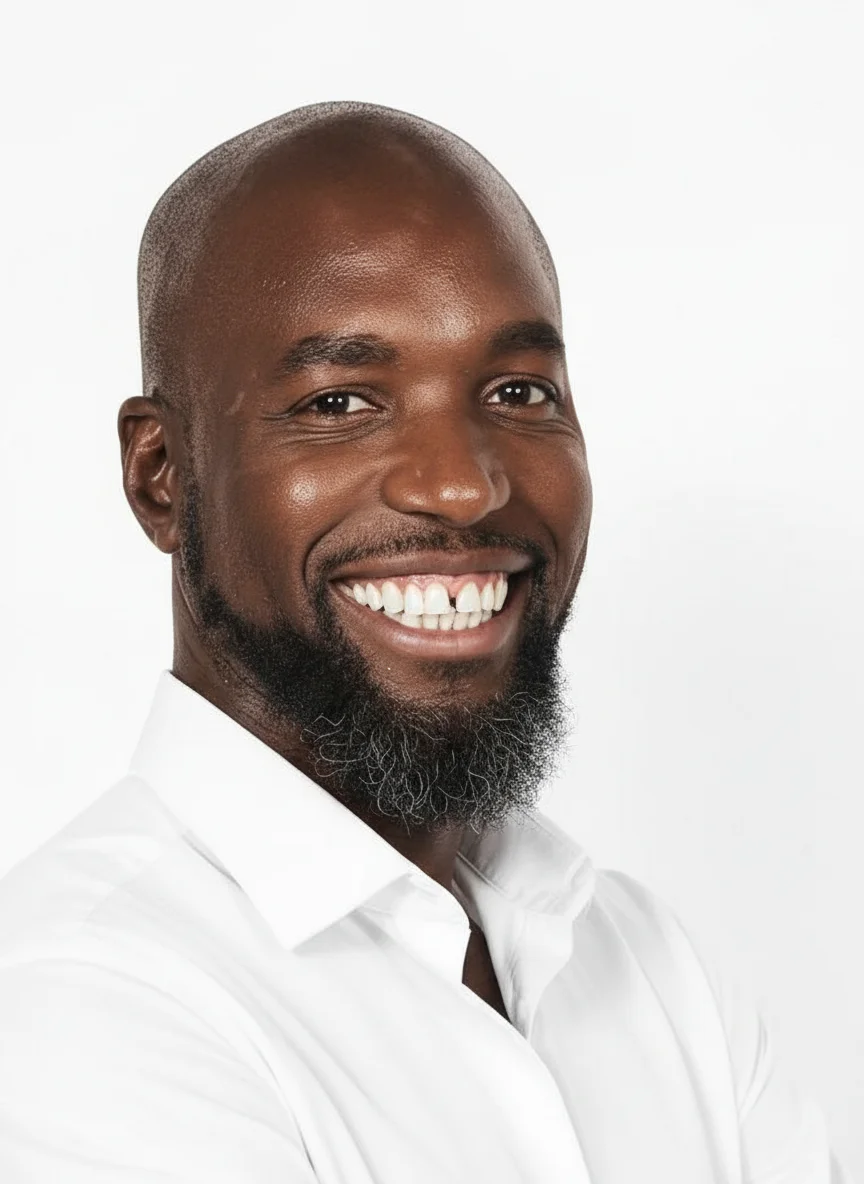
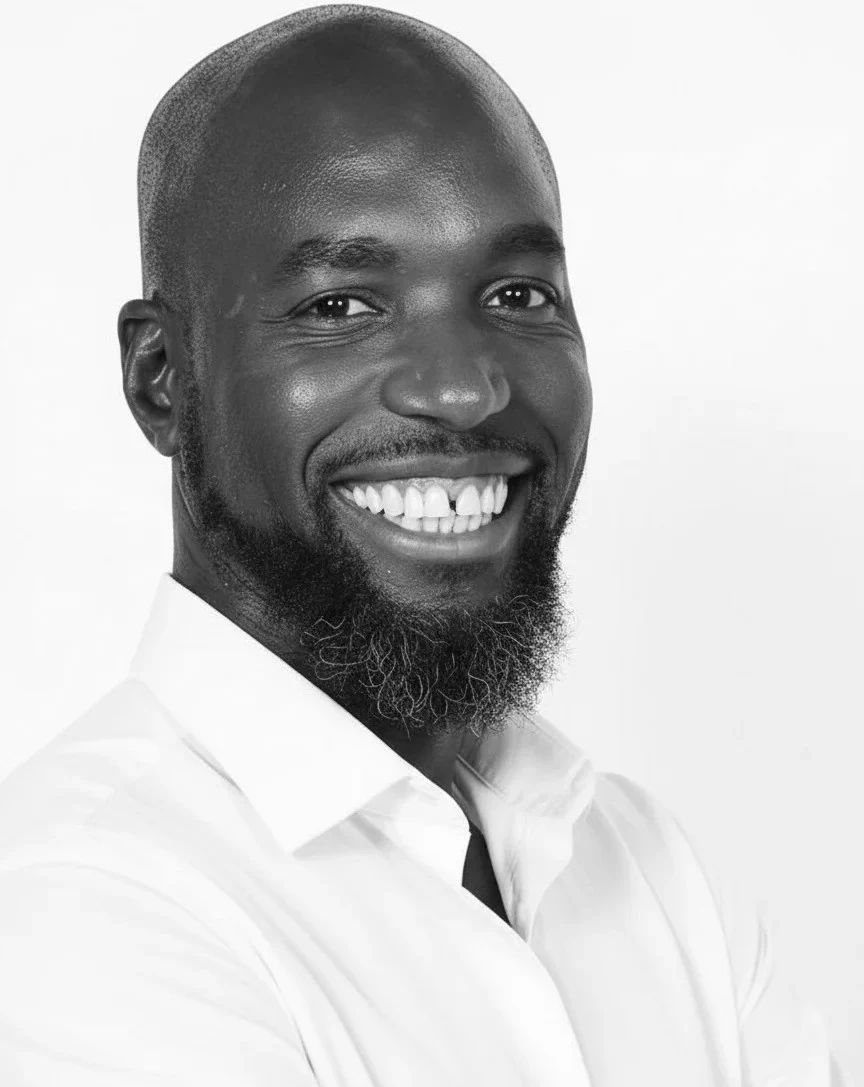
fix: photo Francis — nouvelle version N&B WebP (864x1087), filtre CSS retire

diff --git a/app/components/Team.tsx b/app/components/Team.tsx
@@ -22,7 +22,7 @@ export default function Team() {
               <img
                 src="/Francis Mombo Ostéopathe kinésithérapeute hypnose Castelnau le Lez Saint Mathieu de Treviers.webp"
                 alt="Francis MOMBO ostéopathe kinésithérapeute Castelnau-le-Lez"
-                style={{ width: "100%", height: "100%", objectFit: "cover", objectPosition: "50% 8%", filter: "grayscale(100%) contrast(1.08) brightness(0.95)" }}
+                style={{ width: "100%", height: "100%", objectFit: "cover", objectPosition: "50% 8%" }}
               />
               <div className="absolute inset-0 rounded-t-3xl" style={{ boxShadow: "inset 0 0 40px rgba(0,0,0,0.2)" }} />
             </div>
